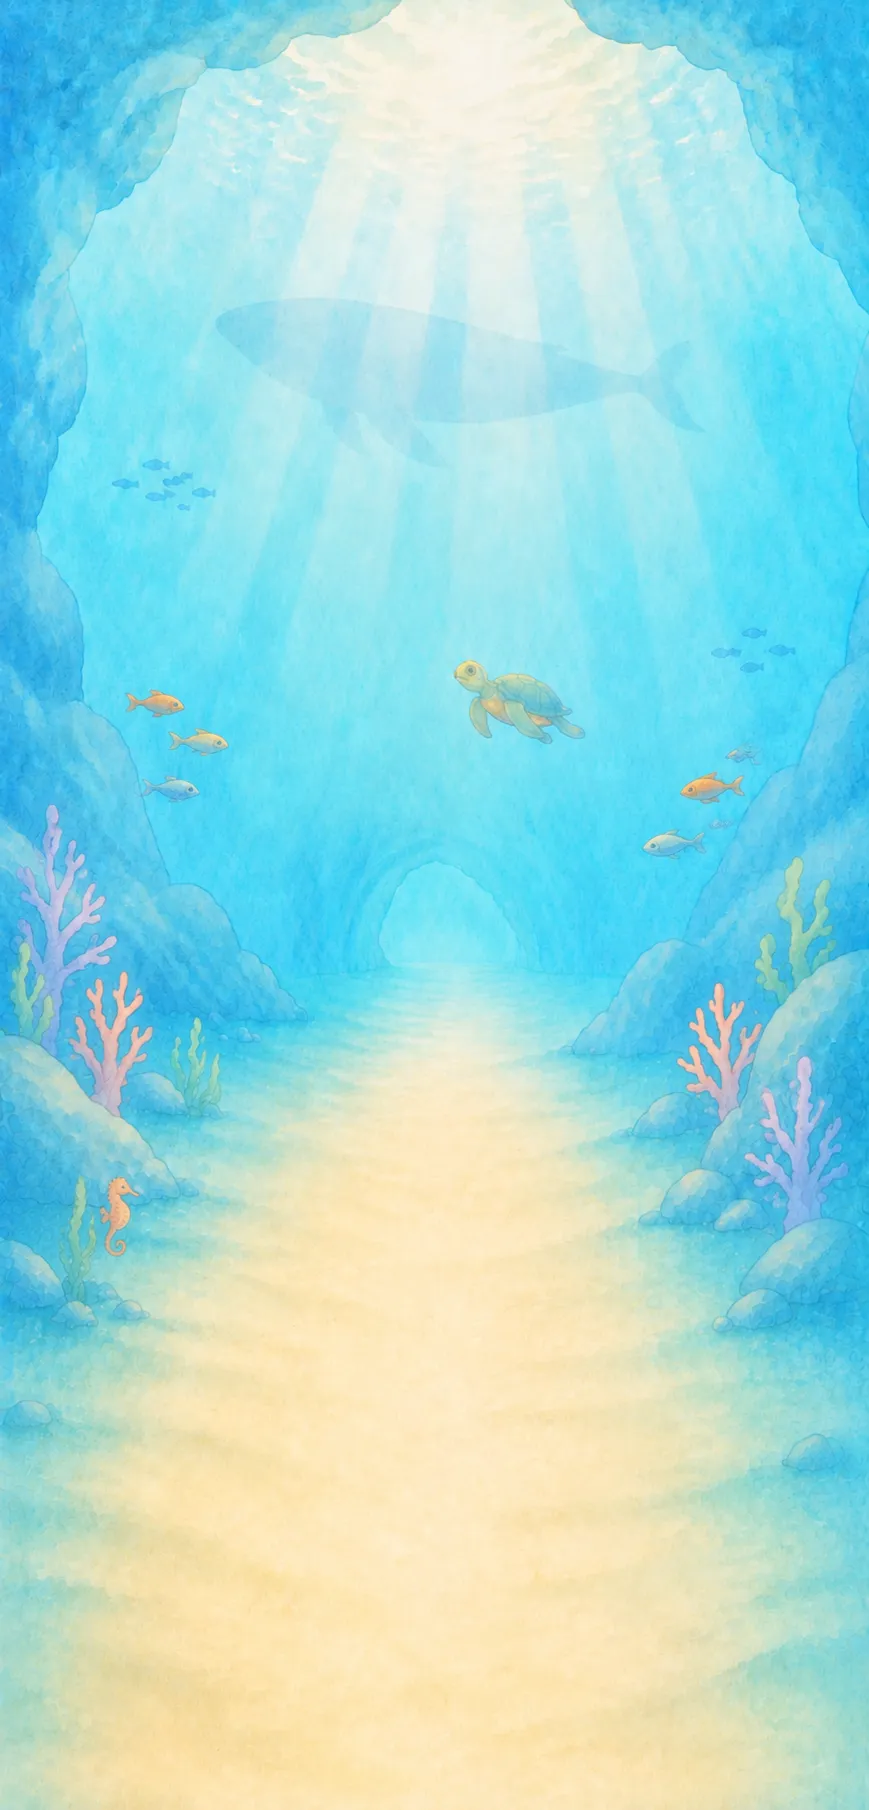
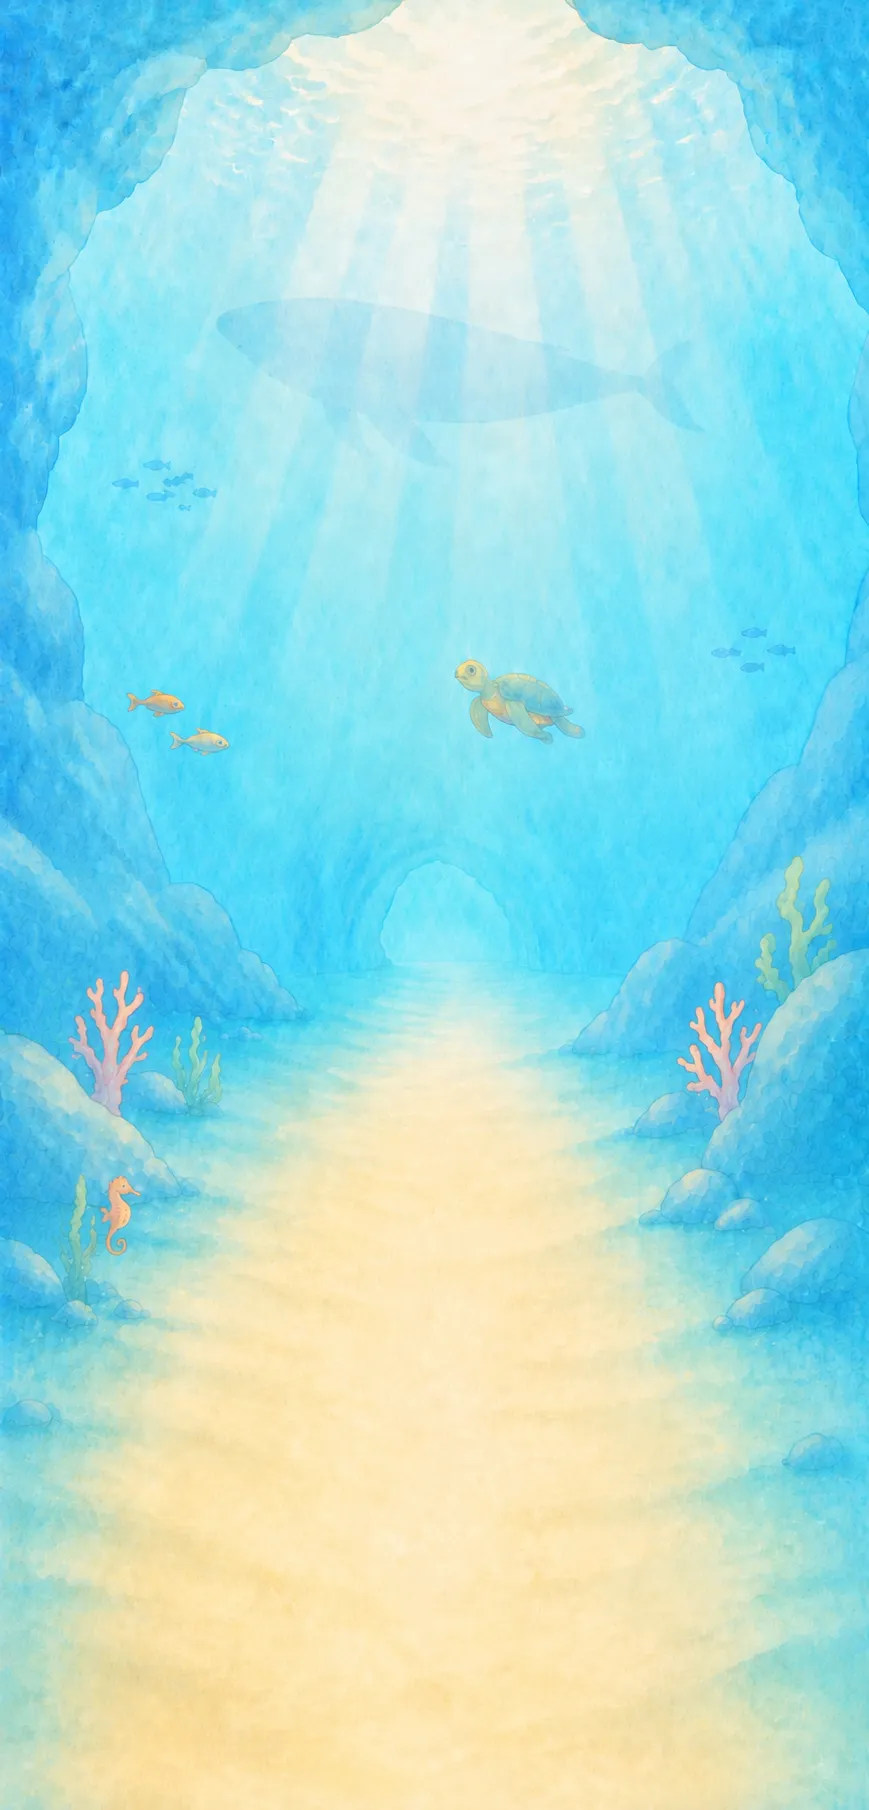
art: '깊은 바다' 배경 원화 v9 교체 (오른쪽 물고기 빠져 앞이 트인 판)
v8과 구도·소품은 그대로다 — 바위 협곡 사이 넓은 모랫길, 위쪽 고래 실루엣,
가운데 바다거북, 왼쪽 아래 해마, 좌우 산호·해초, 수면 빛줄기.
오른쪽에 있던 물고기 두 마리가 빠져 앞쪽이 트이고 모랫길이 넓어졌다.

deco(🫧 🐙 ✨ 🫧 🐚) · tint(0.10) · darkStage(끔)는 그대로 —
물고기·거북·고래·해마는 그림에 있고 기포·문어·조개는 없다.

869×1810 = 1:2.083 으로 무대 칸(1:2.09)과 사실상 같아 잘리는 데가 없다.
규칙 6에 따라 v8 원본과 README 행은 삭제.
배포본 q80(75KB), art-src q92(198KB).

Claude-Session: https://claude.ai/code/session_018maNuYqDfFyRSe9uKpZhPR

diff --git a/art-src/README.md b/art-src/README.md
@@ -228,7 +228,7 @@ getBoundingClientRect로 재서 정한다. 2026-08-05 점검에서 이 기준을
 | adventure-map-short-v3-src.webp | 탐험지도 짧은 판 v3 (922×1706 — 학원 0~3곳용). v2와 길이 거의 같아(기존 85점 중 83점이 그대로 길 위) 좌표는 손대지 않았다 | adventure-map-short.webp |
 | camp-bag-v2-src.webp | 캐릭터 탭 가방 카드 '빈 틀' v2 (1260×860 = 비율 1.465, 투명 = 표시 359px의 3.5배). 세로는 그대로 두고 가로만 넓힌 판 — 종이면이 넓어져 "👑 Lv.20 전설의 탐험가"가 한 줄에 들어간다. 안쪽 종이면 x 9.9~90.0% · y 24.1~86.7%(실측)에 레벨·진행막대·코인/XP를 앱이 그린다 — 값이 매일 바뀌므로 그림에 넣지 않는다. 좁은 v1(1000×862)은 규칙 6에 따라 삭제 | camp/bag.webp |
 | camp-{deco,item,box,pet,book,title,streak,history}-v2-src.webp | 캐릭터 탭 격자 아이콘 **8종 전부** (490×490 정사각 = 표시 138px의 3.5배, 받침 없이 캔버스를 꽉 채운 판). 앱이 정사각 칸에 objectFit:contain 으로 넣으므로 여덟 칸의 무게가 저절로 맞는다. 그루터기 붙은 v1은 규칙 6에 따라 삭제 | camp/st-*.webp |
-| bg-deepsea-v8-src.webp | 꾸미기 배경 '깊은 바다' 원화 v8 (869×1810 = 1:2.083 — 무대 칸 1:2.09 와 사실상 같아 잘리는 데가 없다). v7과 구도는 같다(바위 협곡 사이 넓은 모랫길 · 위쪽 고래 실루엣 · 가운데 바다거북 · 좌우 산호·해초 · 수면 빛줄기) — 생물이 늘었다. 주황·은색 물고기가 앞쪽에 여럿 그려지고 왼쪽 아래에 해마가 들어왔으며, 대신 v7에 있던 조개가 빠졌다. deco 는 🫧 🐙 ✨ 🫧 🐚 — 물고기가 이제 그림에 또렷하게 여럿 있어 🐠 를 뺐고(v7 은 멀리 실루엣뿐이었다), 그림에서 빠진 조개를 🐚 로 대신 채웠다. 🐬 는 고래가 그려져 있어 계속 뺀 상태. tint 0.10 · darkStage 끔 — v6부터 같은 설정이다(위쪽이 흰 빛줄기라 크림색 문구가 안 읽힌다). 받은 그대로 톤 보정 없음. art-src 는 q92(206KB), 배포본은 q80(76KB) | stage-bg-deepsea.webp |
+| bg-deepsea-v9-src.webp | 꾸미기 배경 '깊은 바다' 원화 v9 (869×1810 = 1:2.083 — 무대 칸 1:2.09 와 사실상 같아 잘리는 데가 없다). v8과 구도·소품은 그대로다(바위 협곡 사이 넓은 모랫길 · 위쪽 고래 실루엣 · 가운데 바다거북 · 왼쪽 아래 해마 · 좌우 산호·해초 · 수면 빛줄기) — 오른쪽에 있던 물고기 두 마리가 빠져 앞쪽이 트이고 모랫길이 넓어졌다. deco 🫧 🐙 ✨ 🫧 🐚 — v8 그대로다(물고기·거북·고래·해마는 그림에 있고, 기포·문어·조개는 없다). tint 0.10 · darkStage 끔 — v6부터 같은 설정이다(위쪽이 흰 빛줄기라 크림색 문구가 안 읽힌다). 받은 그대로 톤 보정 없음. art-src 는 q92(198KB), 배포본은 q80(75KB) | stage-bg-deepsea.webp |
 | bg-dino-v3-src.webp | 꾸미기 배경 '공룡 섬' 원화 v3 (865×1819 = 1:2.10 — 무대 칸 1:2.09 와 거의 같다). v2와 구도·소품은 그대로고 하늘만 달라진 판 — 왼쪽 위에 큰 뭉게구름이 들어오고 오른쪽에도 구름이 더해져 하늘이 덜 비어 보인다. 초원도 살짝 진해졌다. 구도가 같아 deco·tint·darkStage 는 v2 설정 그대로 둔다. 받은 그대로 톤 보정 없음. art-src 는 q92(197KB), 배포본은 q80(78KB) | stage-bg-dino.webp |
 | bg-space-v3-src.webp | 꾸미기 배경 '우주 탐사' 원화 v3 (868×1812 = 1:2.088 — 무대 칸 1:2.09 와 사실상 같아 잘리는 데가 없다). v2와 구도는 같다(아래 지구의 둥근 지평선이 아이가 서는 바닥, 오른쪽 위 보름달, 왼쪽 토성, 가운데를 가로지르는 로켓) — 색이 맑아지고 은하수 띠가 또렷해졌으며 잔별 노이즈가 줄었다. 그림이 장식 이모지로 넣던 것을 거의 다 이미 그려서(🚀 🪐 🌎 🌙 ⭐ 🌌) deco 는 그림에 없는 셋만 둔다: ☄ 🛸 🌠. tint 0.12 · darkStage 유지(밤하늘이라 응원문구는 크림색). v2 는 입자가 거칠어 배포본을 q74 로 낮췄지만, v3 은 결이 매끈해 q80 에서도 115KB 라 집 기준인 q80 으로 돌아왔다. 받은 그대로 톤 보정 없음. art-src 는 q92(297KB), 배포본은 q80(115KB) | stage-bg-space.webp |
 | bg-jungle-v4-src.webp | 꾸미기 배경 '정글 원정대' 원화 v4 (869×1810 = 1:2.083 — 무대 칸 1:2.09 와 사실상 같아 잘리는 데가 없다). v3과 구도·소품은 그대로다(개울 건너는 큰 징검다리 위에 아이가 서고, 길 끝에 코끼리, 왼쪽 나무에 나무늘보, 오른쪽 가지에 큰부리새, 멀리 산) — 전체가 노란빛 쪽으로 한 톤 따뜻해지고 징검다리가 커졌으며 멀리 산이 또렷해졌다. deco 🐒 🐍 🌺 · tint 연한 초록 0.10 · darkStage 끔 — v1부터 같은 설정이다(그림에 원숭이·뱀·꽃이 없고, 위쪽이 밝은 연둣빛이라 크림색 문구가 안 읽힌다). 받은 그대로 톤 보정 없음. art-src 는 q92(181KB), 배포본은 q80(74KB) | stage-bg-jungle.webp |
